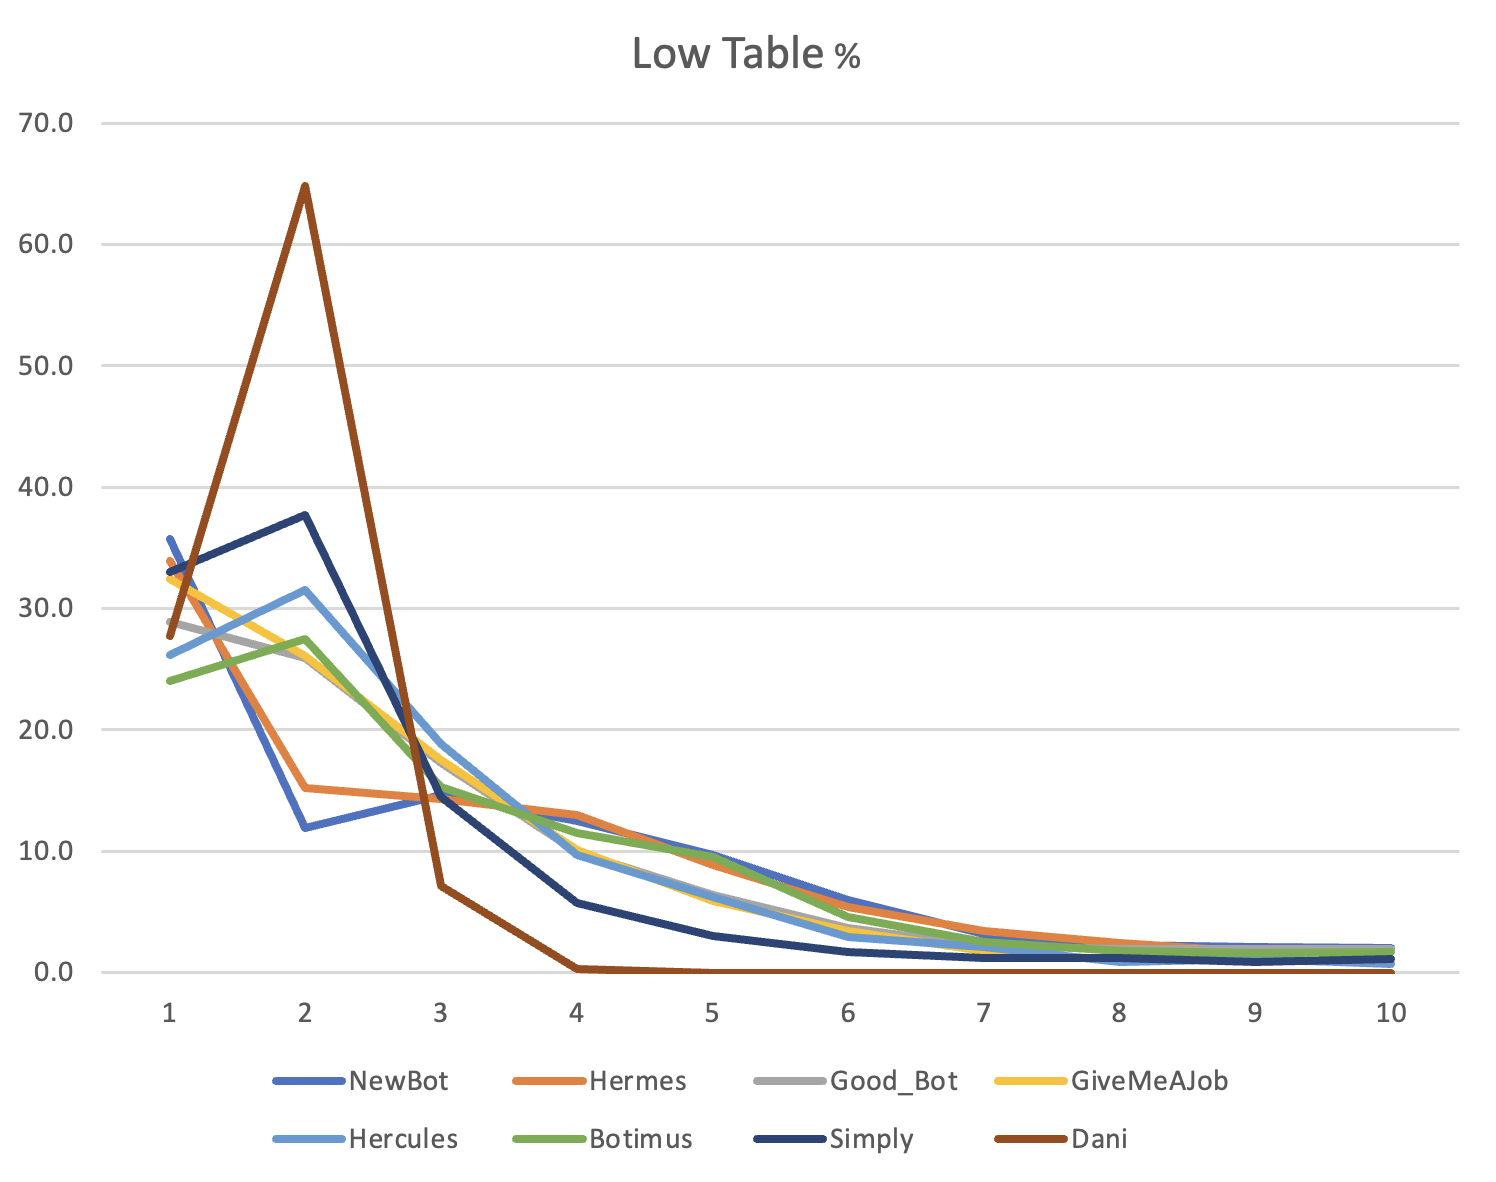
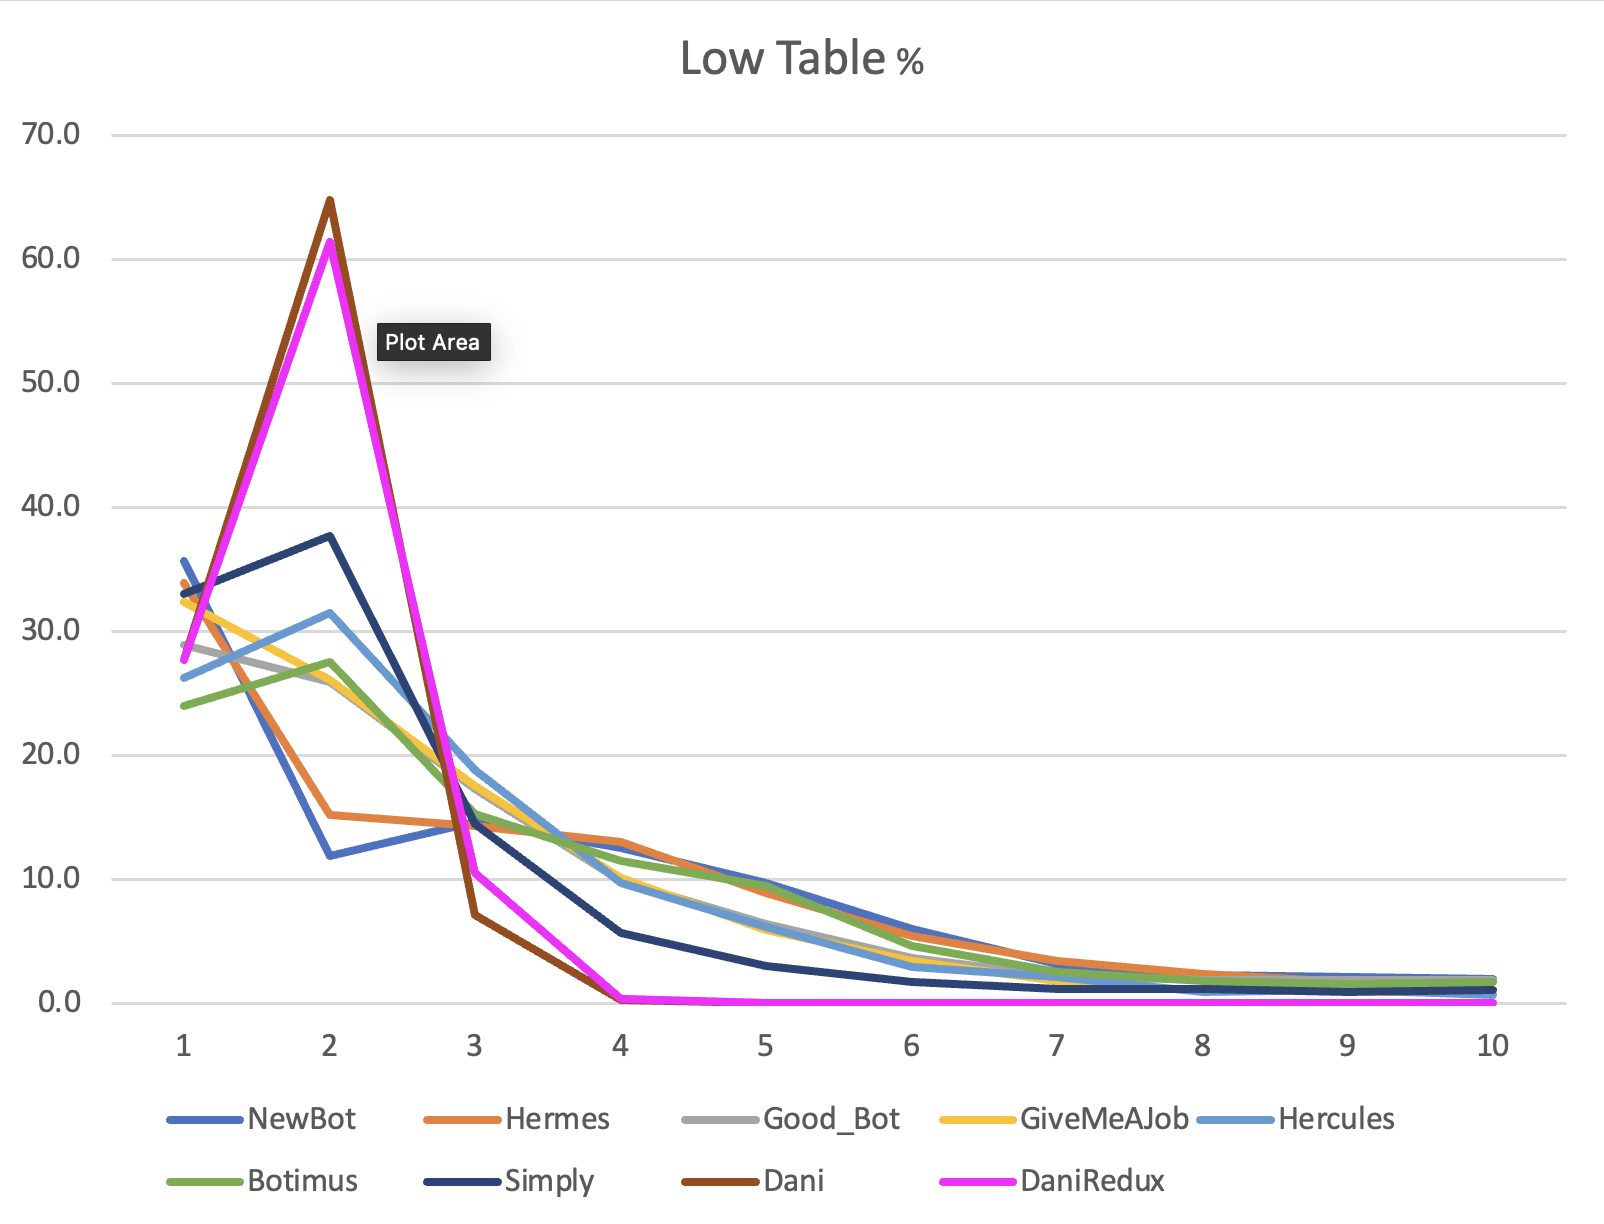
ioh

diff --git a/ITU/DaniRedux.py b/ITU/DaniRedux.py
@@ -37,7 +37,7 @@ class Bot:
 
         hand_percentage = self.get_hand_percentage(obs)
         if obs.get_max_spent() < self.max_call_function(obs, hand_percentage):
-            if hand_percentage <= 30 or obs.current_round == 0 and hand_percentage <= 40:
+            if hand_percentage <= 30 or obs.current_round == 0:
                 return obs.get_min_raise()
             return 1
 

diff --git a/readme.md b/readme.md
@@ -1,6 +1,7 @@
 # SpicyOverlord's upgraded Poker Bot Battle
-This is an upgraded version of the ITU Poker Bot Battle scripts with extended statistical logging.\
+This is an upgraded version of the ITU Poker Bot Battle 2023 scripts with extended statistical logging.\
 This also contains my own bots and their play statistics and analysis.
+
 ## Strength rankings
 1. DaniRedux
 2. Dani
